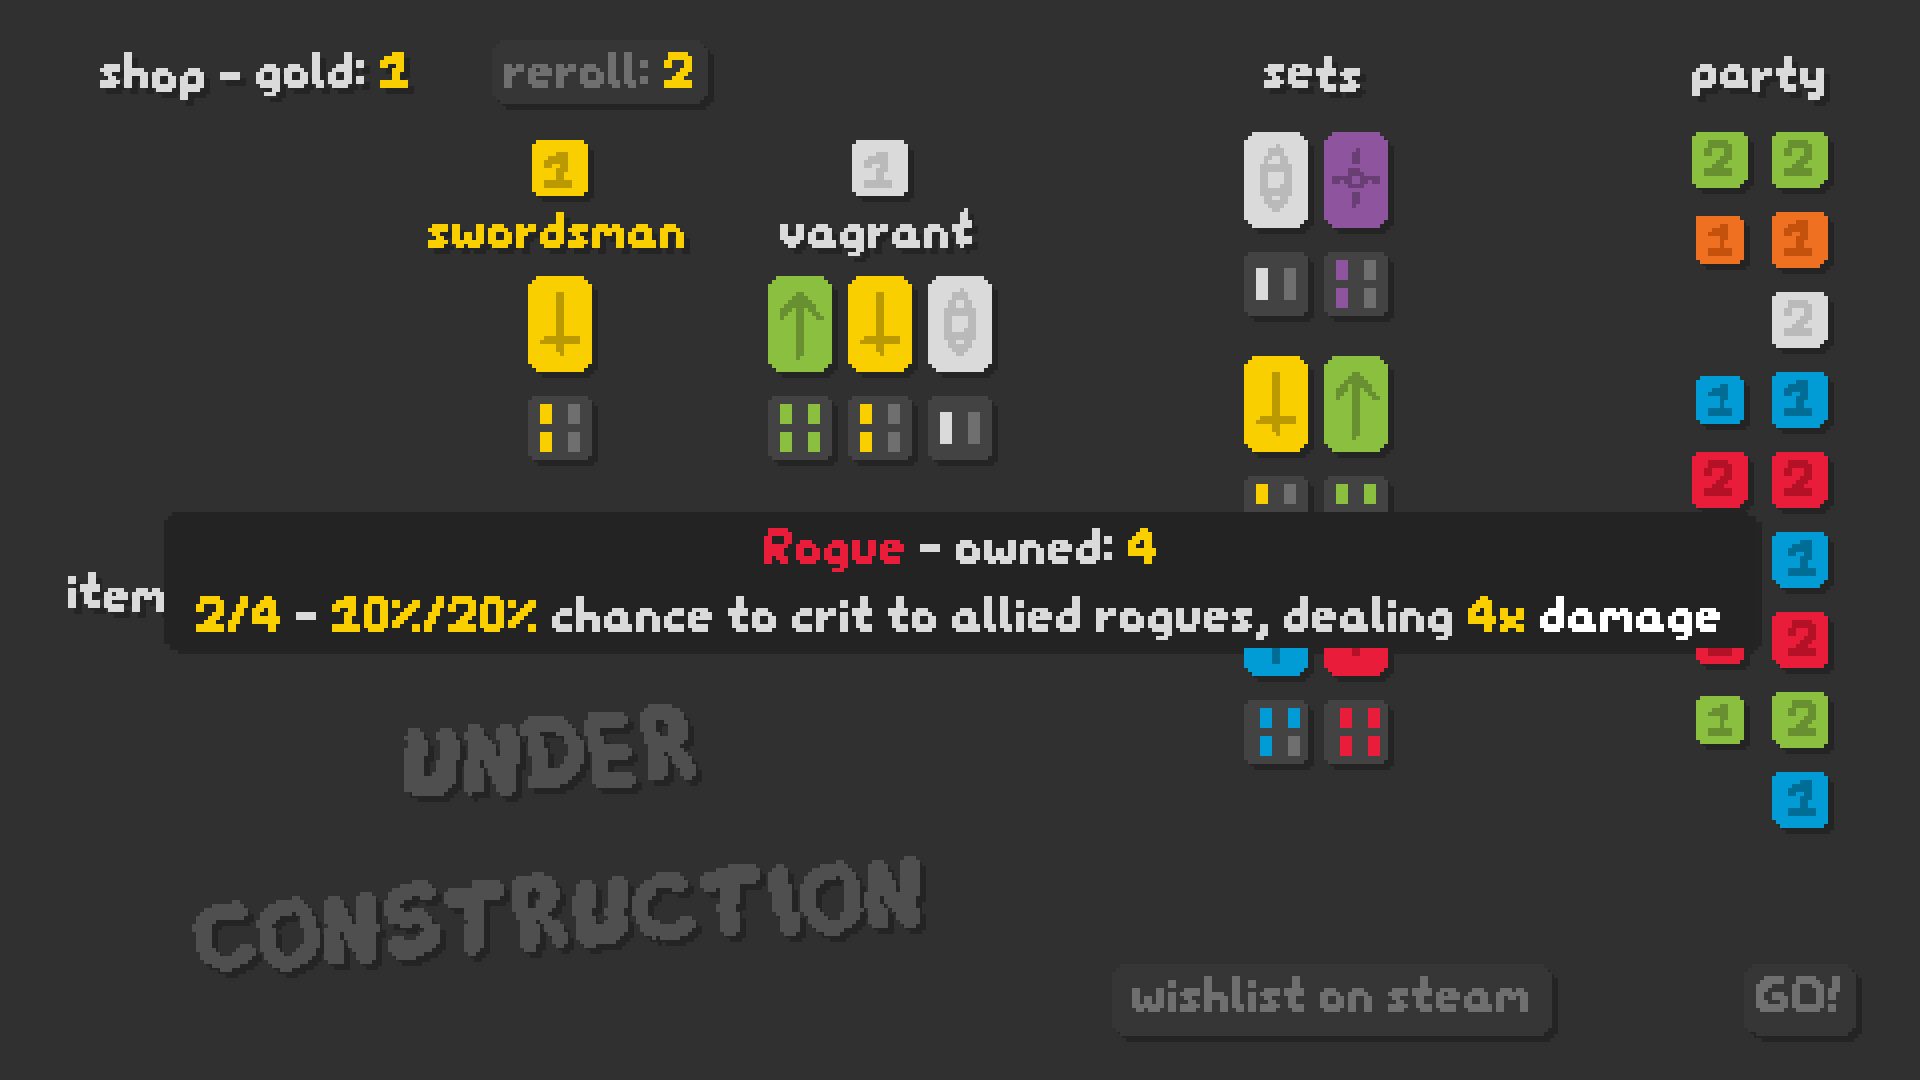
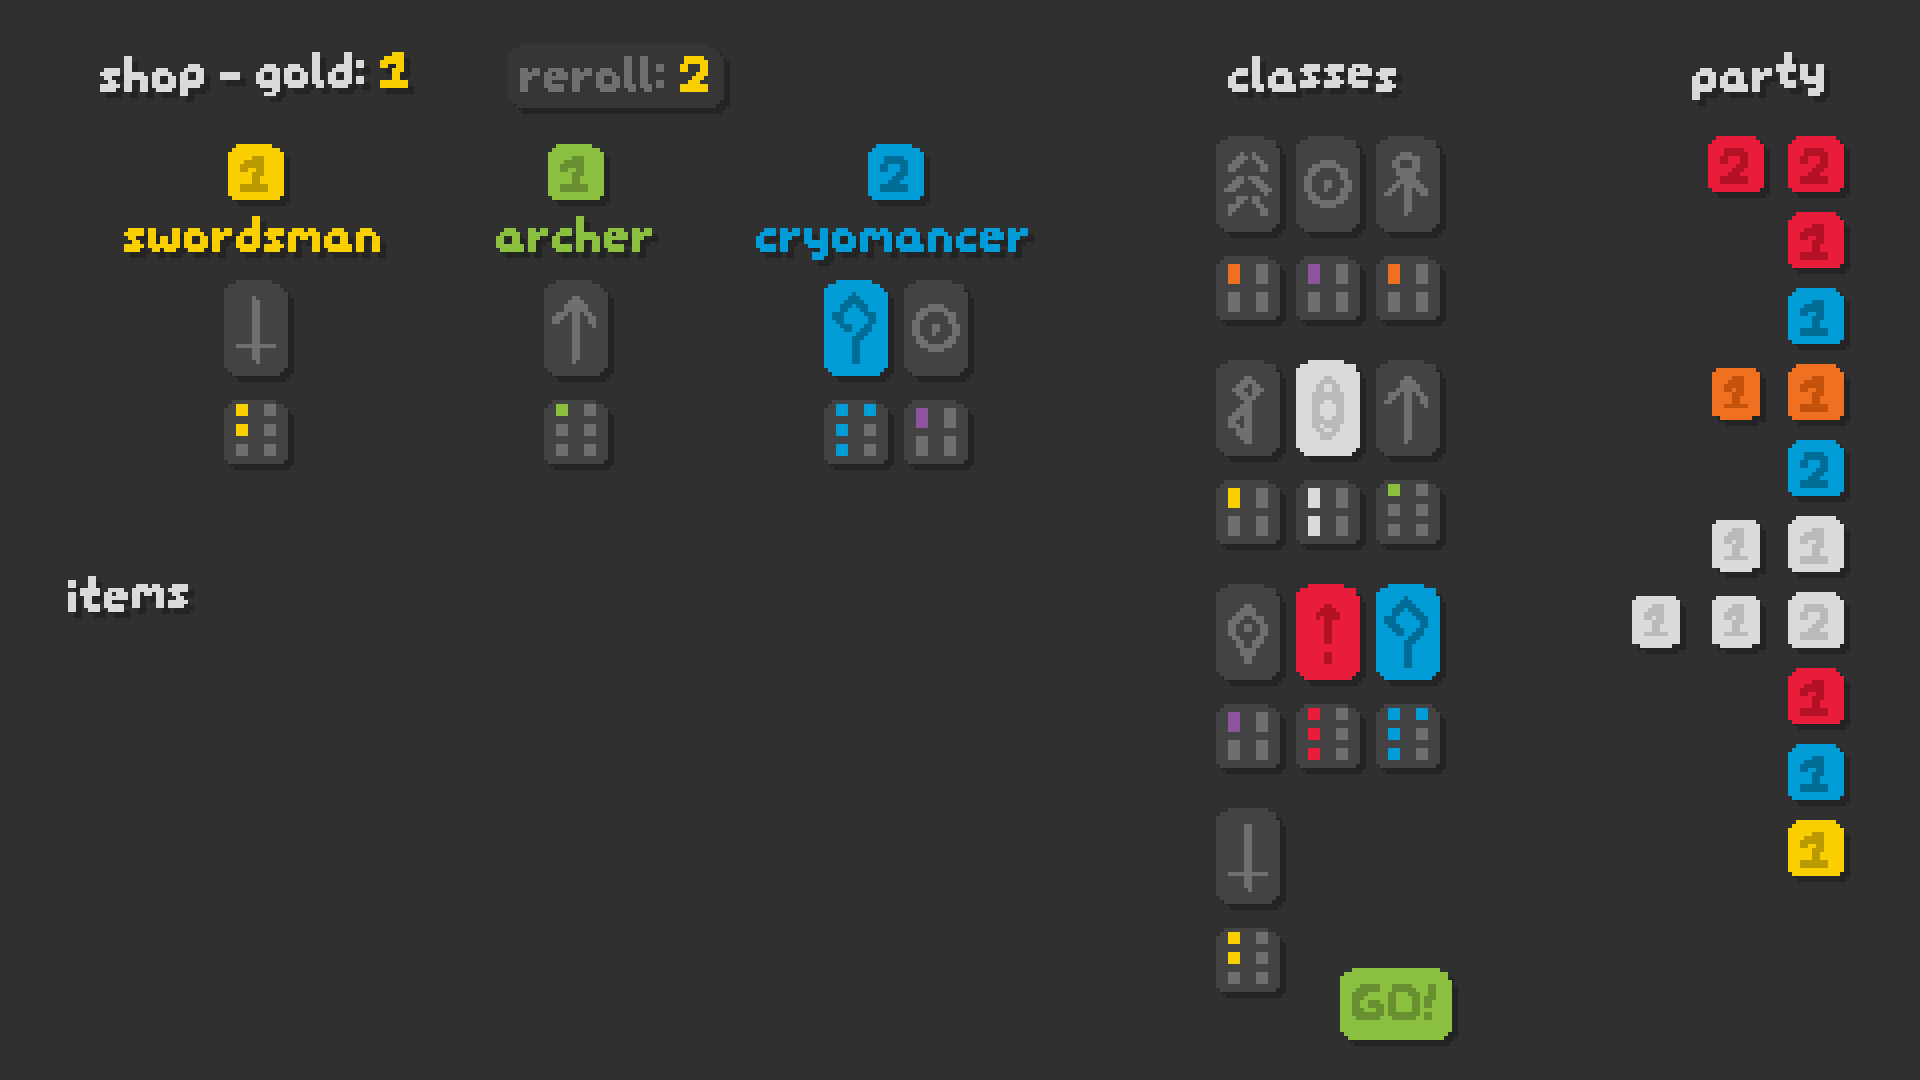
Day 64-66

diff --git a/devlog.md b/devlog.md
@@ -1023,3 +1023,31 @@ thing, which should make it easier to work with. The rect cutting UI idea does s
 | Spawning Pool | +1 critter health |
 | Hive | +2 critter health |
 | Void Rift | attacks by mages, nukers or voiders have a 20% chance to create a void rift on hit |
+
+# Day 64-66 - 21-23/04/21
+
+Lots of small fixes here and there and also made an attempt at getting the build accepted on Steam. It failed and now I'm waiting again until next week most likely since the guy didn't get to it by the end of Friday.
+I also made some small graphical improvements to the game that I think will help. Now what I have left to do, in order of importance:
+
+* General balance
+  * Enemies should have a chance to be spawned with a modifier as levels increase
+  * Every 3rd level should be wave only
+  * Remove "enemies killed" mode
+  * Balance playthroughs (record all balance playthroughs as they can be used for trailers)
+* UI improvements
+  * Hover class highlight
+  * DPS list (right)
+  * HP list (bottom)
+  * Item list (left)
+* Graphical improvements
+  * Further graphical improvements if there's time
+* Trailers
+  * 3-4 pure gameplay playthroughs showcasing different builds
+* Misc
+  * Better pause screen
+  * End screen
+  * Ascension mode (difficulty ramps up faster and goes higher than normal at the end)
+  * Music for bosses and shop
+* Achievements
+  * Come up with a few new ones as I play the game more and balance the numbers
+  * Implement all the ones I already uploaded to Steam
